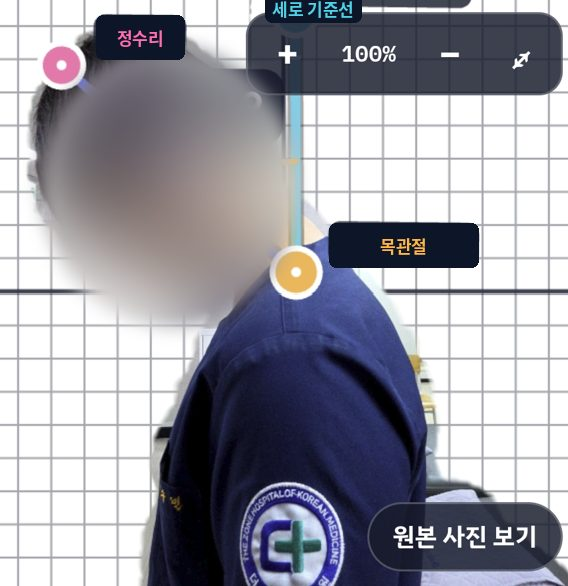
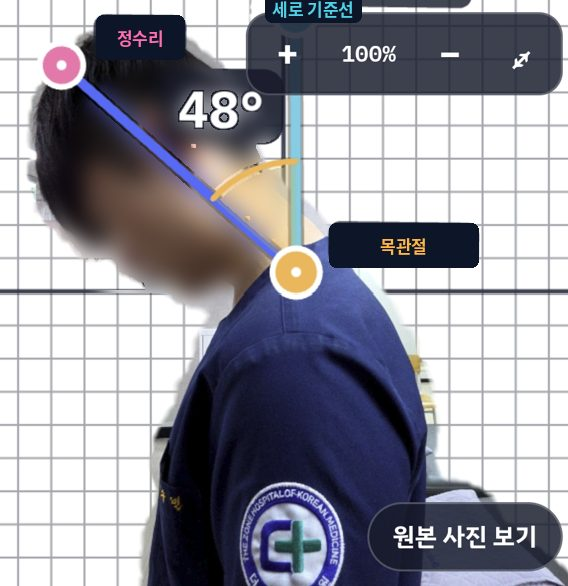
v104 측정가이드 얼굴은 아주 가볍게만 흐림 + 얼굴 위 측정선·점·각도는 선명하게, ROM 촬영 테두리를 밝은 배경에서도 잘 보이게
Claude-Session: https://claude.ai/code/session_01T1RYGXC9MSzoiM6Dyygffi

Changed region(s): [[0.0599, 0.0614, 0.5387, 0.5836]]

diff --git a/index.html b/index.html
@@ -1586,7 +1586,7 @@
     </div>
     <div class="rom-sum" id="romSum"></div>
     <div class="rom-grid" id="romGrid"></div>
-    <p class="rom-note">정상 각도는 일반적인 참고 범위예요. 촬영 각도·자세에 따라 달라질 수 있는 참고값이에요. <span style="opacity:.6">· 앱 버전 v103</span></p>
+    <p class="rom-note">정상 각도는 일반적인 참고 범위예요. 촬영 각도·자세에 따라 달라질 수 있는 참고값이에요. <span style="opacity:.6">· 앱 버전 v104</span></p>
   </section>
   <section class="view" id="view-scol" hidden>
     <div class="member-bar rom-mb" id="scolMember">
@@ -1603,7 +1603,7 @@
     <div class="rom-grid" id="scolGrid"></div>
     <div class="scol-info">
       <b>측만증 측정 (전방 굴곡 검사)</b> · 무릎을 펴고 허리를 숙인 자세를 정면(또는 뒤)에서 등 높이로 촬영 → 척추 양옆 같은 거리의 등 높이를 자동으로 찾아 수평선과의 각도(체간 회전각)를 계산해요. <b>5° 미만</b> 정상 범위, <b>5–7°</b> 관찰, <b>7° 이상</b>은 전문가 상담을 권장해요.<br>
-      촬영 조건에 따라 달라질 수 있는 스크리닝 참고값이며, 정확한 판단은 전문가와 상담하세요. <span style="opacity:.6">· 앱 버전 v103</span>
+      촬영 조건에 따라 달라질 수 있는 스크리닝 참고값이며, 정확한 판단은 전문가와 상담하세요. <span style="opacity:.6">· 앱 버전 v104</span>
     </div>
   </section>
   <section class="view" id="view-members" hidden>
@@ -7748,8 +7748,9 @@
     var b = romFit(o.a, vw, vh, 0.94);
     var path = function(){ g.beginPath(); o.p.forEach(function(p){ for(var i = 0; i < p.length; i += 2){ var x = b.x + p[i] / 1000 * b.w, y = b.y + p[i + 1] / 1000 * b.h; if(i === 0) g.moveTo(x, y); else g.lineTo(x, y); } }); };
     g.save(); g.lineJoin = "round"; g.lineCap = "round";
-    path(); g.strokeStyle = "rgba(0,0,0,.4)"; g.lineWidth = 5; g.stroke();
-    path(); g.strokeStyle = "rgba(234,241,239,.92)"; g.lineWidth = 2.4; g.stroke();
+    path(); g.strokeStyle = "rgba(13,21,40,.75)"; g.lineWidth = 7; g.stroke();   // 밝은 벽·커튼 앞에서도 잘 보이게 어두운 테두리 + 밝은 선
+    path(); g.strokeStyle = "#FFFFFF"; g.lineWidth = 3.2; g.stroke();
+    path(); g.strokeStyle = "rgba(79,209,232,.9)"; g.lineWidth = 1.4; g.stroke();
     g.restore();
     tag.hidden = false; tag.className = "rom-gtag"; tag.textContent = "기본 자세 테두리에 몸을 맞춰 촬영하세요";
   }

diff --git a/sw.js b/sw.js
@@ -1,7 +1,7 @@
 /* AYO체형분석 — 서비스워커
    - 화면(index.html): 네트워크 우선 → GitHub에 올린 최신 버전이 바로 반영되고, 인터넷이 끊기면 저장본으로 열림
    - 인식 모델·라이브러리(MediaPipe)·글꼴: 한 번 받으면 폰에 저장해 두고 재사용 → 두 번째부터 빠르고 오프라인에서도 동작 */
-const VERSION = "pma-v71";
+const VERSION = "pma-v72";
 const SHELL = "pma-shell-" + VERSION;
 const ASSETS = "pma-assets-v1";   // 모델 파일은 버전과 무관하게 유지(약 25MB 재다운로드 방지)
 const SHELL_FILES = ["./", "./index.html", "./manifest.webmanifest",
